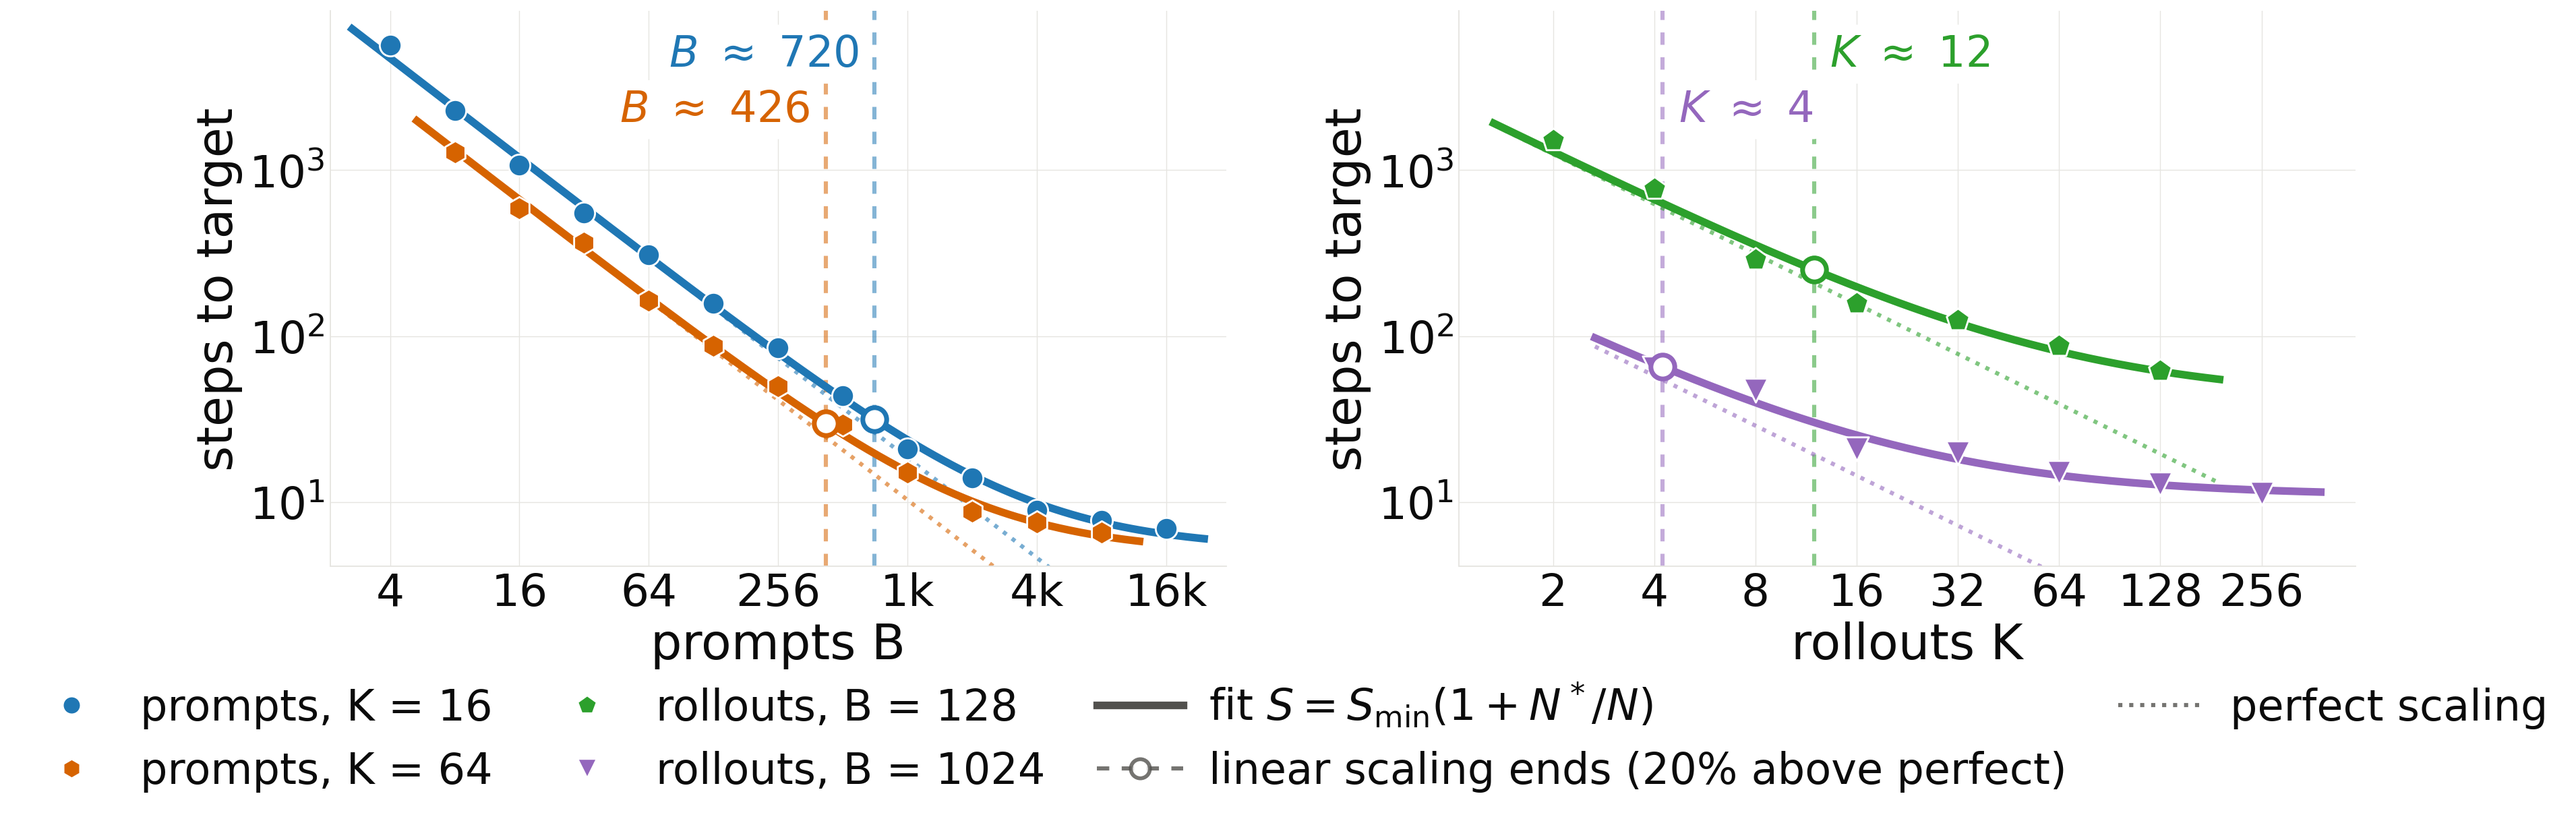
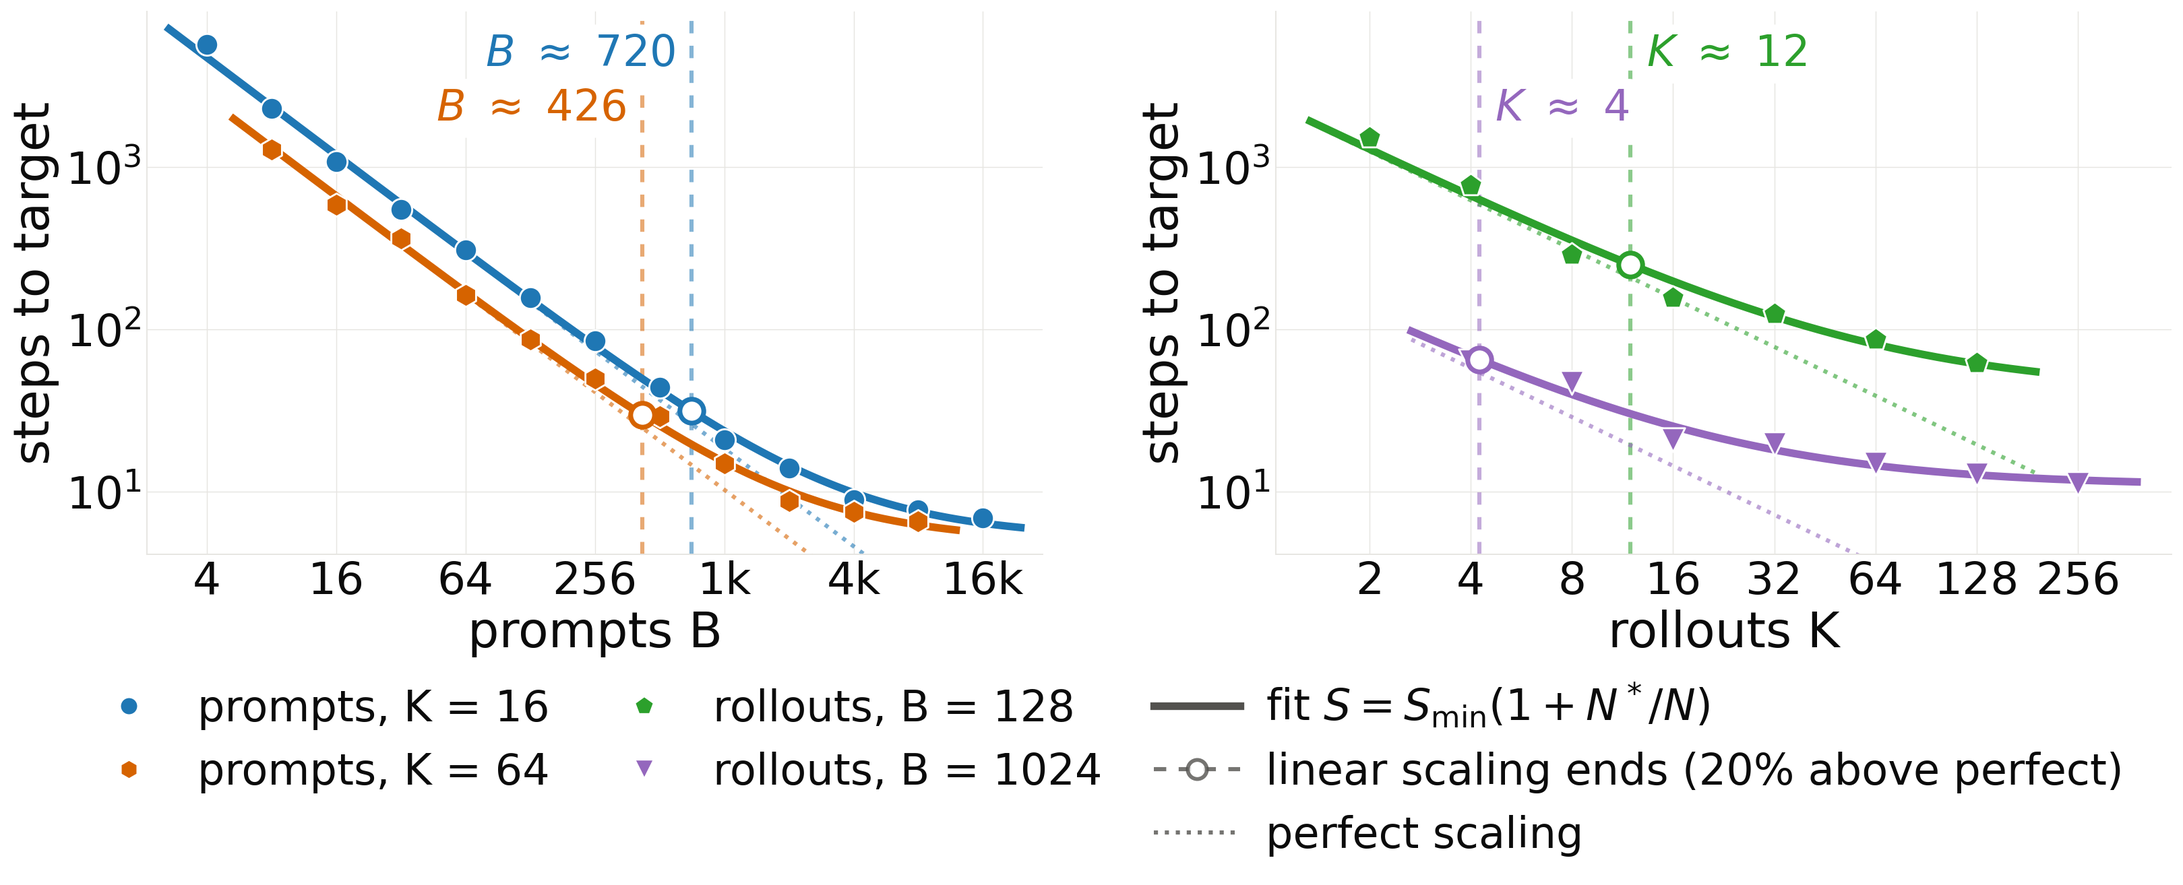
plots: Figure 2 legend in three columns; fail if the legend strip overflows its canvas
Claude-Session: https://claude.ai/code/session_01W75chJn3avZzxyPZDywWSf

diff --git a/plots/scripts/plot_sweeps_two_panel.py b/plots/scripts/plot_sweeps_two_panel.py
@@ -121,18 +121,30 @@ def draw_a(ax): panel(ax, ["n16", "n64"], "prompts B", "$B$" if LIN else "$B^*$"
 def draw_b(ax): panel(ax, ["b128", "b1024"], "rollouts K", "$K$" if LIN else "$K^*$", side="right" if LIN else "left")   # --lin: the K lines sit where the curves are high; labels to the right
 
 
-hnd = [Line2D([], [], marker=MK[k][0], ls="", ms=MARKER_SHRINK * MK[k][1], color=C[k], mec=SURFACE) for k in SWEEPS] + \
+# three columns, filled column by column: the two prompt sweeps | the two rollout sweeps | fit, marker, perfect scaling (a four-column
+# layout is wider than the line once the marker label is "linear scaling ends (20% above perfect)")
+BLANK = Line2D([], [], ls="", color=SURFACE)
+sw = [Line2D([], [], marker=MK[k][0], ls="", ms=MARKER_SHRINK * MK[k][1], color=C[k], mec=SURFACE) for k in SWEEPS]
+hnd = sw[:2] + [BLANK] + sw[2:] + [BLANK] + \
       [Line2D([], [], ls="-", lw=4.8, color=INK2),
-       Line2D([], [], ls=(0, (3, 3)), lw=2.6, color=INK2, alpha=0.8, marker="o" if LIN else None, ms=12, mfc=SURFACE, mec=INK2, mew=2.4), Line2D([], [], ls=":", lw=2.6, color=INK2, alpha=0.8),
-       Line2D([], [], ls="", color=SURFACE)]
-lab = [NAME[k] for k in SWEEPS] + ["fit $S = S_\\min(1 + N^*/N)$", f"linear scaling ends ({LIN:.0%} above perfect)" if LIN else "critical batch $N^*$",
-                                   "perfect scaling", ""]
+       Line2D([], [], ls=(0, (3, 3)), lw=2.6, color=INK2, alpha=0.8, marker="o" if LIN else None, ms=12, mfc=SURFACE, mec=INK2, mew=2.4),
+       Line2D([], [], ls=":", lw=2.6, color=INK2, alpha=0.8)]
+names = [NAME[k] for k in SWEEPS]
+lab = names[:2] + [""] + names[2:] + [""] + ["fit $S = S_\\min(1 + N^*/N)$", f"linear scaling ends ({LIN:.0%} above perfect)" if LIN else "critical batch $N^*$",
+                                             "perfect scaling"]
+
+
+def check_inside(fig, leg, what):
+    """fail loudly if a legend runs off its canvas (a fixed-size legend strip clips it silently)"""
+    fig.canvas.draw(); bb = leg.get_window_extent(); fb = fig.bbox
+    if bb.x0 < fb.x0 - 1 or bb.x1 > fb.x1 + 1 or bb.y0 < fb.y0 - 1 or bb.y1 > fb.y1 + 1:
+        raise SystemExit(f"{what}: legend {bb.bounds} does not fit in the canvas {fb.bounds}")
 pdf_dir = os.path.join(os.path.dirname(os.path.dirname(os.path.abspath(png_out))), "paper"); os.makedirs(pdf_dir, exist_ok=True)
 H = 7.4
-fig, (axa, axb) = plt.subplots(1, 2, figsize=(PAPER_SCALE * (26.0), PAPER_SCALE * (H + 2.8)), facecolor=SURFACE)
-fig.subplots_adjust(left=0.06, right=0.99, top=0.96, bottom=0.31, wspace=0.26)
+fig, (axa, axb) = plt.subplots(1, 2, figsize=(PAPER_SCALE * (26.0), PAPER_SCALE * (H + 3.6)), facecolor=SURFACE)
+fig.subplots_adjust(left=0.06, right=0.99, top=0.96, bottom=0.37, wspace=0.26)
 draw_a(axa); draw_b(axb)
-fig.legend(hnd, lab, loc="lower center", ncol=4, frameon=False, fontsize=LEGEND, labelcolor=INK, handletextpad=0.6, columnspacing=1.2, bbox_to_anchor=(0.5, 0.0))
+leg = fig.legend(hnd, lab, loc="lower center", ncol=3, frameon=False, fontsize=LEGEND, labelcolor=INK, handletextpad=0.6, columnspacing=1.2, bbox_to_anchor=(0.5, 0.0))
 fig.savefig(png_out, dpi=170, facecolor=SURFACE, bbox_inches="tight")
 fig.savefig(os.path.join(pdf_dir, os.path.basename(png_out).replace(".png", ".pdf")), facecolor=SURFACE, bbox_inches="tight")
 stem = png_out.replace(".png", "")
@@ -140,8 +152,9 @@ for tag, fn in (("a", draw_a), ("b", draw_b)):
     f_, a_ = plt.subplots(figsize=(PAPER_SCALE * (0.495 * 26.0), PAPER_SCALE * (H)), facecolor=SURFACE, layout="constrained"); fn(a_)
     f_.savefig(f"{stem}_{tag}.png", dpi=170, facecolor=SURFACE)
     f_.savefig(os.path.join(pdf_dir, os.path.basename(stem) + f"_{tag}.pdf"), facecolor=SURFACE); plt.close(f_)
-fL = plt.figure(figsize=(PAPER_SCALE * (26.0), PAPER_SCALE * (2.6)), facecolor=SURFACE)
-fL.legend(hnd, lab, loc="center", ncol=4, frameon=False, fontsize=LEGEND, labelcolor=INK, handletextpad=0.6, columnspacing=1.2)
+fL = plt.figure(figsize=(PAPER_SCALE * (26.0), PAPER_SCALE * (3.4)), facecolor=SURFACE)
+legL = fL.legend(hnd, lab, loc="center", ncol=3, frameon=False, fontsize=LEGEND, labelcolor=INK, handletextpad=0.6, columnspacing=1.2)
+check_inside(fL, legL, "legend strip")
 fL.savefig(f"{stem}_legend.png", dpi=170, facecolor=SURFACE); fL.savefig(os.path.join(pdf_dir, os.path.basename(stem) + "_legend.pdf"), facecolor=SURFACE); plt.close(fL)
 print("wrote", png_out, "with _a / _b / _legend (PNG + paper PDFs)")
 for k, (pts, per, series, _) in SWEEPS.items():
